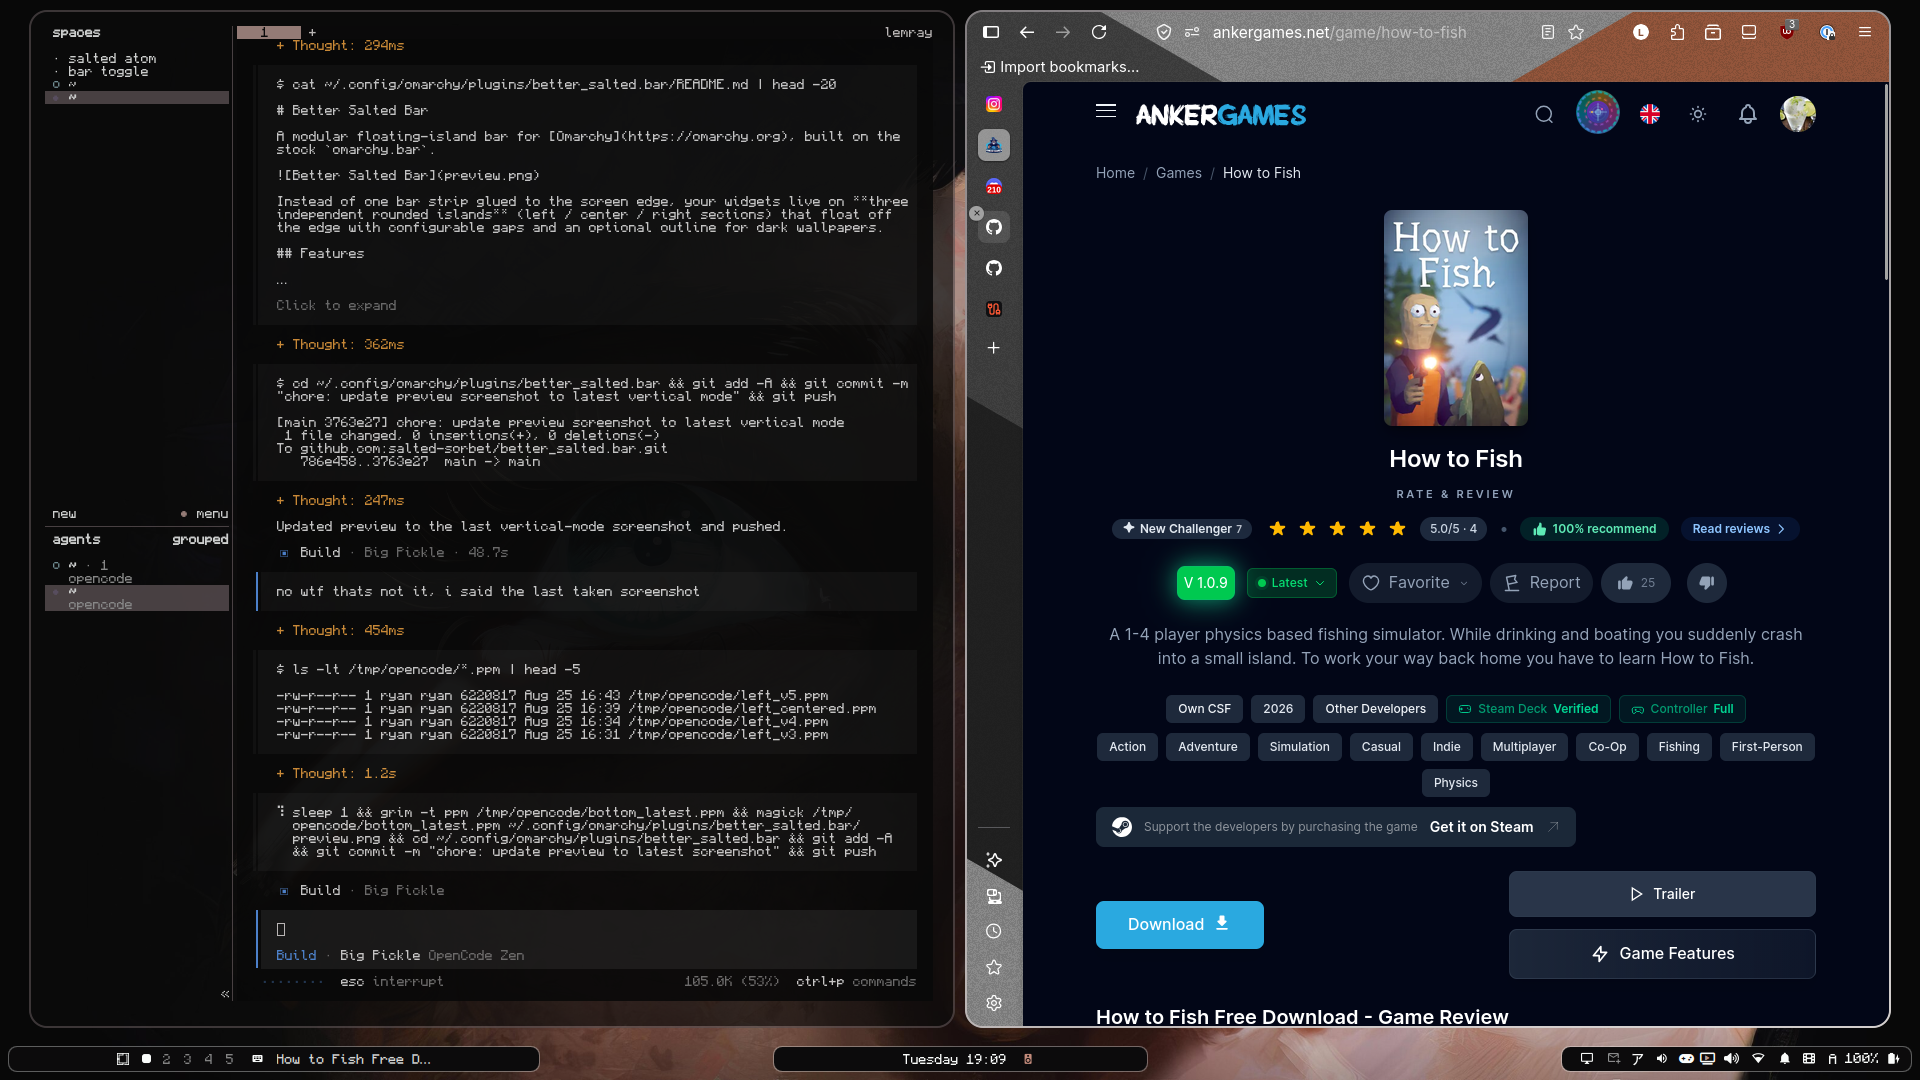
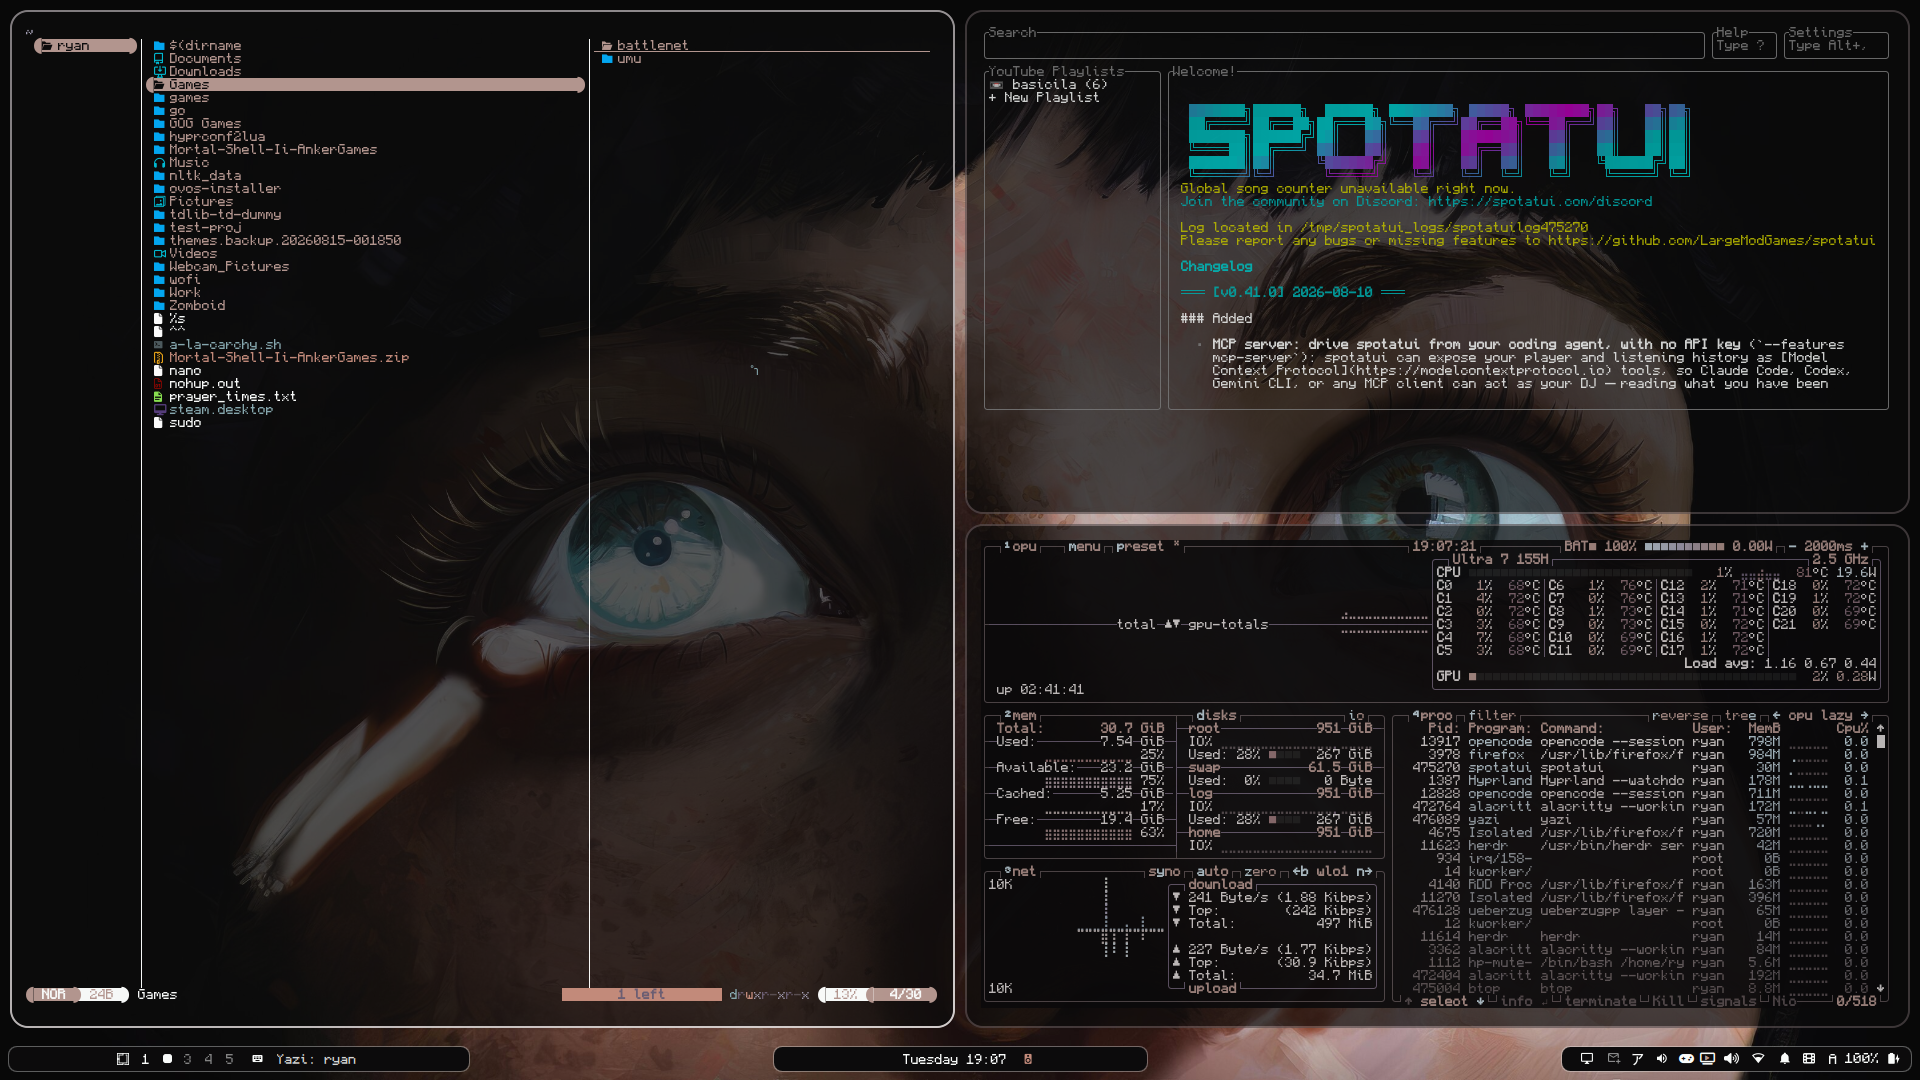
chore: update preview to user-provided screenshot

diff --git a/README.md b/README.md
@@ -2,7 +2,7 @@
 
 A modular floating-island bar for [Omarchy](https://omarchy.org), built on the stock `omarchy.bar`.
 
-![Better Salted Bar](preview.png)
+![Better Salted Bar](preview.png?v=2)
 
 Instead of one bar strip glued to the screen edge, your widgets live on **three independent rounded islands** (left / center / right sections) that float off the edge with configurable gaps and an optional outline for dark wallpapers.
 
